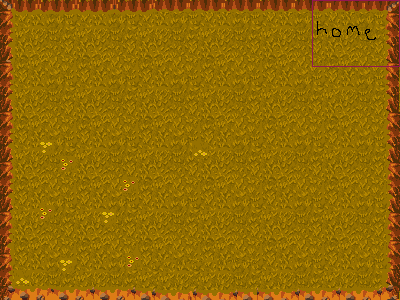
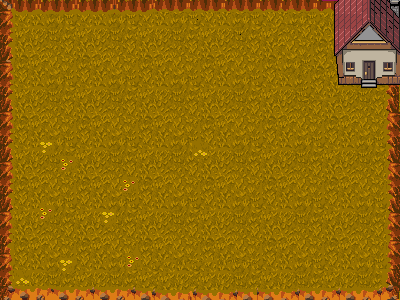
replace placeholder house sprite with actual house image

Changed region(s): [[0.69, 0.0, 1.0, 0.33]]

diff --git a/src/Player.cpp b/src/Player.cpp
@@ -24,10 +24,10 @@ struct Player {
   }
 
   bool isInHome(int x, int y) {
-     if (x < (WORLD_WIDTH / TILE_WIDTH) - 4) {
+     if (x < (WORLD_WIDTH / TILE_WIDTH) - 3) {
 	   return false;
 	 } 
-     if (y > 2) {
+     if (y > 3) {
 	   return false;
 	 } 
 	 return true;

diff --git a/design/ASSETS.md b/design/ASSETS.md
@@ -20,6 +20,10 @@ http://www.fontspace.com/codeman38/press-start-2p
 
 ## Tileset
 
+https://opengameart.org/content/pixel-house-and-fence
+
+For the house.
+
 https://angrysnail.itch.io/pixel-art-graveyard-tileset
 
 This is really nice but a bit dark.
